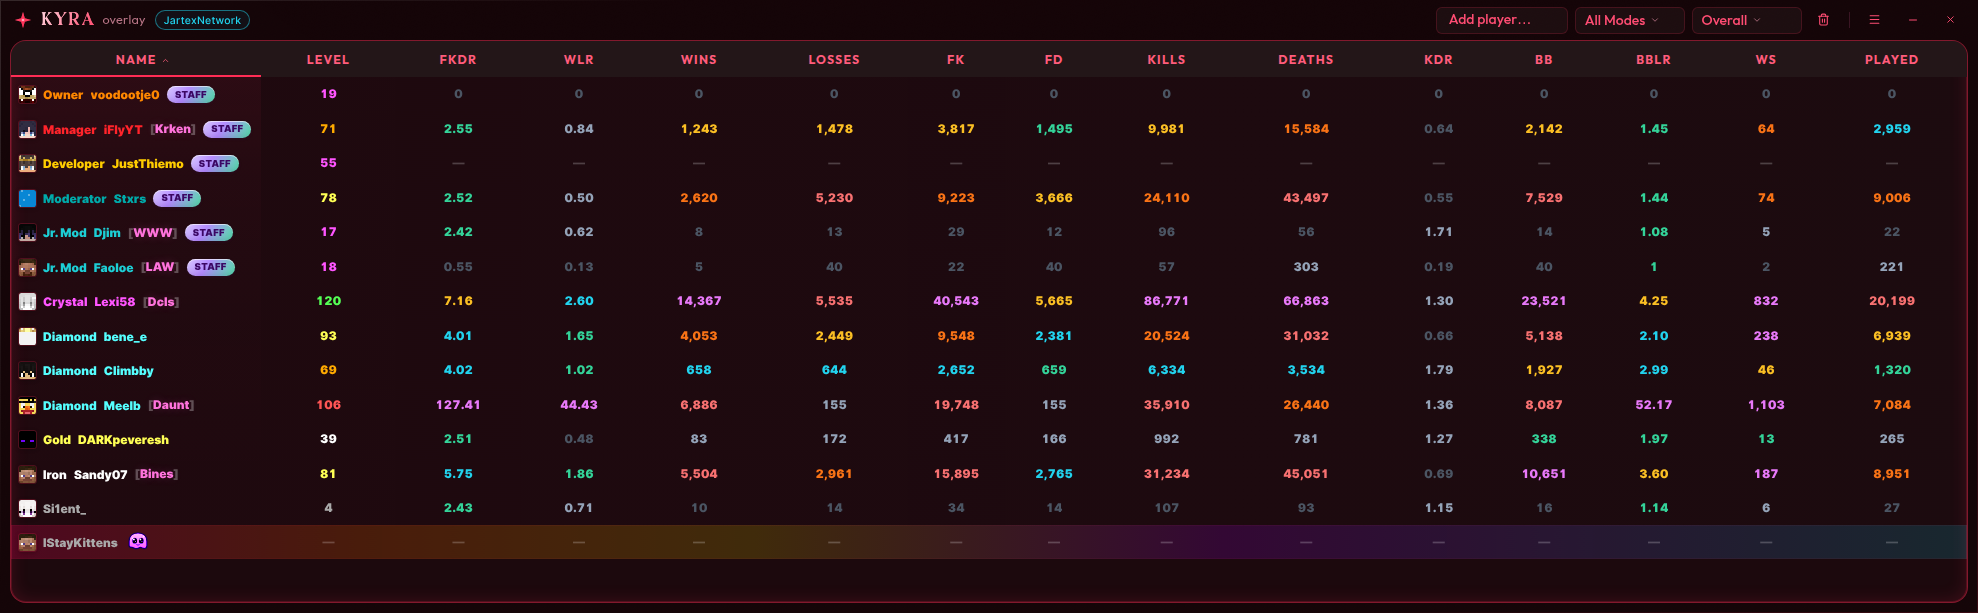
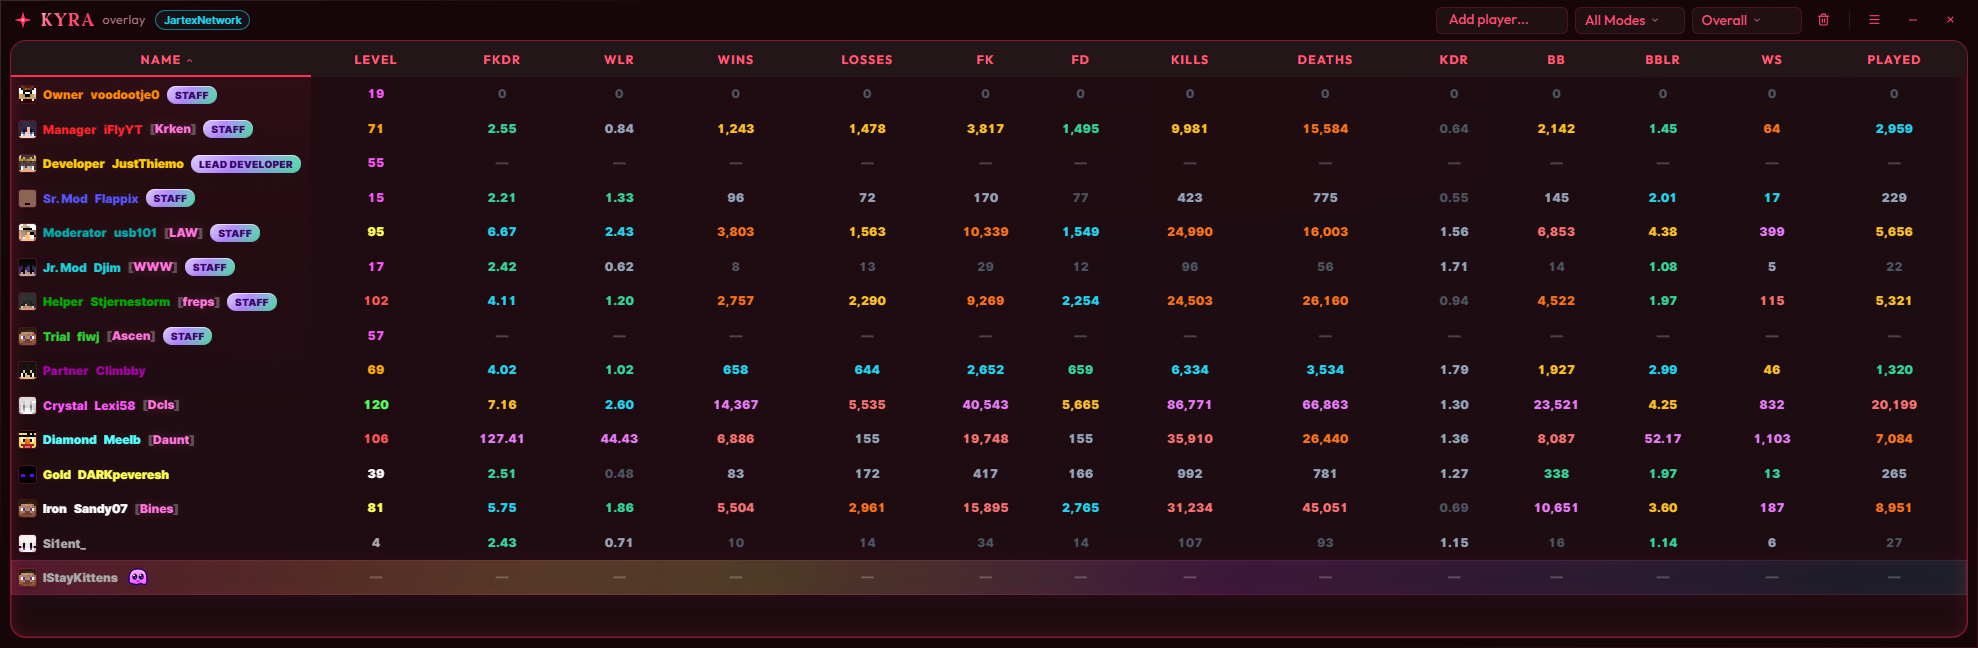
feat(support): integrate in-app support

diff --git a/e2e/showcase.spec.ts b/e2e/showcase.spec.ts
@@ -3,40 +3,44 @@ import path from 'node:path';
 import { test } from '@playwright/test';
 import { _electron as electron } from 'playwright';
 
-const pika = [
-  'voodootje0',
-  'Arrly',
-  'JustThiemo',
-  '_Luanne',
-  'Ehtne',
-  'Darnly',
-  'Vaitren',
-  'tobin',
-  'Climbby',
-  'meoweys',
-  'resuns',
-  'izoo_',
-  'Si1ent_',
-  'Hiqhest',
-  'IStayKittens',
-];
+const api = 'https://craftigames.kyizl.is-a.dev/api/staff';
 
-const jartex = [
-  'voodootje0',
-  'iFlyYT',
-  'JustThiemo',
-  'bene_e',
-  'Stxrs',
-  'Djim',
-  'Faoloe',
-  'Climbby',
-  'Lexi58',
-  'Meelb',
-  'DARKpeveresh',
-  'Sandy07',
-  'Si1ent_',
-  'IStayKittens',
-];
+interface StaffApiResponse {
+  groups: { members: { username: string }[] }[];
+}
+
+async function fetchStaffUsernames(network: 'pika' | 'jartex'): Promise<string[]> {
+  const response = await fetch(`${api}/${network}`);
+  if (!response.ok) {
+    throw new Error(
+      `[showcase] staff API request failed for ${network}: ${response.status}`,
+    );
+  }
+
+  const data = (await response.json()) as StaffApiResponse;
+  return data.groups.map((group) => group.members[0].username);
+}
+
+const NON_STAFF_USERNAMES = {
+  pika: [
+    'Climbby', // Partner
+    'avised', // Champion
+    'resuns', // Titan
+    'izoo_', // Elite
+    'Si1ent_', // VIP
+    'Hiqhest', // NON
+    'IStayKittens', // Nicked
+  ],
+  jartex: [
+    'Climbby', // Partner
+    'Lexi58', // Crystal
+    'Meelb', // Diamond
+    'DARKpeveresh', // Gold
+    'Sandy07', // Iron
+    'Si1ent_', // NON
+    'IStayKittens', // Nicked
+  ],
+};
 
 const columns = [
   'NAME',
@@ -197,6 +201,29 @@ async function captureShowcase(
         if (!state) throw new Error('[showcase] pinia state not found');
         const api = net === 'jartexnetwork' ? window.api.jartex : window.api.pika;
 
+        const normalizeProfile = (
+          profile: Record<string, unknown> | null,
+        ): Record<string, unknown> | null => {
+          if (!profile) return profile;
+          const rank = profile.rank as { rankDisplay?: string } | undefined;
+          if (!rank?.rankDisplay?.includes('Partner')) return profile;
+          const ranks = profile.ranks as { name: string }[];
+          if (ranks.some((r) => r.name === 'partner')) return profile;
+          return {
+            ...profile,
+            ranks: [
+              ...ranks,
+              {
+                name: 'partner',
+                displayName: 'Partner',
+                server: '',
+                season: null,
+                expiry: -1,
+              },
+            ],
+          };
+        };
+
         for (const name of names) {
           (state.players.players as unknown[]).push({
             name,
@@ -236,7 +263,9 @@ async function captureShowcase(
               } else if (result.rateLimit) {
                 p.error = 'rate_limited';
               } else {
-                p.profile = result.profile;
+                p.profile = normalizeProfile(
+                  result.profile as Record<string, unknown> | null,
+                );
                 p.stats = result.stats;
                 const apiName =
                   typeof result.profile === 'object' && result.profile !== null
@@ -293,8 +322,6 @@ async function captureShowcase(
       const tbodyH = tbody instanceof HTMLElement ? tbody.scrollHeight : 0;
       const footerH = footer instanceof HTMLElement ? footer.offsetHeight : 34;
 
-      // Measure the table's natural content width (sum of whitespace-nowrap columns)
-      // rather than body.scrollWidth which includes the over-expanded 2000px window.
       const table = document.querySelector('table') as HTMLElement | null;
       const w = table?.scrollWidth ?? document.body.scrollWidth;
 
@@ -341,6 +368,19 @@ async function captureShowcase(
 }
 
 test.setTimeout(180_000);
+
+let pika: string[] = [];
+let jartex: string[] = [];
+
+test.beforeAll(async () => {
+  const [pikaStaff, jartexStaff] = await Promise.all([
+    fetchStaffUsernames('pika'),
+    fetchStaffUsernames('jartex'),
+  ]);
+
+  pika = [...pikaStaff, ...NON_STAFF_USERNAMES.pika];
+  jartex = [...jartexStaff, ...NON_STAFF_USERNAMES.jartex];
+});
 
 test('capture pika showcase', async () => {
   await captureShowcase(pika, { ...base, network: 'pikanetwork' }, 'showcase-pika.png');

diff --git a/src/renderer/src/lib/staff-subroles.ts b/src/renderer/src/lib/staff-subroles.ts
@@ -1,0 +1,125 @@
+import type { Network } from '@renderer/types';
+
+interface StaffApiMember {
+  username: string;
+  role: string;
+}
+
+interface StaffApiGroup {
+  id: string;
+  members: StaffApiMember[];
+}
+
+interface StaffApiResponse {
+  groups: StaffApiGroup[];
+}
+
+type SubroleGroupMap = Map<string, Map<string, string>>;
+
+interface CacheEntry {
+  data: SubroleGroupMap | null;
+  expiresAt: number;
+  pending: Promise<SubroleGroupMap | null> | null;
+}
+
+const api = 'https://craftigames.kyizl.is-a.dev/api/staff';
+const ttl = 5 * 60 * 1000;
+
+const map: Record<Network, string> = {
+  pikanetwork: 'pika',
+  jartexnetwork: 'jartex',
+};
+
+const eligible: Record<Network, Set<string>> = {
+  pikanetwork: new Set(['admin', 'developer']),
+  jartexnetwork: new Set(['developer']),
+};
+
+const cache = new Map<Network, CacheEntry>();
+
+function buildGroupMap(response: StaffApiResponse): SubroleGroupMap {
+  const groupMap: SubroleGroupMap = new Map();
+  for (const group of response.groups ?? []) {
+    if (!group?.id) continue;
+    const memberMap = new Map<string, string>();
+    for (const member of group.members ?? []) {
+      if (!member?.username || !member?.role) continue;
+      memberMap.set(member.username.toLowerCase(), member.role);
+    }
+    groupMap.set(group.id, memberMap);
+  }
+  return groupMap;
+}
+
+async function fetchGroupMap(network: Network): Promise<SubroleGroupMap | null> {
+  const slug = map[network];
+  const controller = new AbortController();
+  const timeoutId = setTimeout(() => controller.abort(), 8000);
+
+  try {
+    const response = await fetch(`${api}/${slug}`, {
+      signal: controller.signal,
+    });
+    if (!response.ok) return null;
+
+    const payload = (await response.json()) as StaffApiResponse;
+    if (!Array.isArray(payload?.groups)) return null;
+
+    return buildGroupMap(payload);
+  } catch {
+    return null;
+  } finally {
+    clearTimeout(timeoutId);
+  }
+}
+
+async function getGroupMap(network: Network): Promise<SubroleGroupMap | null> {
+  const now = Date.now();
+  const existing = cache.get(network);
+
+  if (existing?.pending) return existing.pending;
+  if (existing && existing.expiresAt > now) return Promise.resolve(existing.data);
+
+  const pending = fetchGroupMap(network).then((data) => {
+    cache.set(network, {
+      data,
+      expiresAt: Date.now() + ttl,
+      pending: null,
+    });
+    return data;
+  });
+
+  cache.set(network, {
+    data: existing?.data ?? null,
+    expiresAt: existing?.expiresAt ?? 0,
+    pending,
+  });
+
+  return pending;
+}
+
+export function isStaffSubroleEligible(
+  network: Network,
+  rankName: string | null,
+): boolean {
+  /* eslint-disable-next-line ts/strict-boolean-expressions */
+  if (!rankName) return false;
+  return eligible[network]?.has(rankName) ?? false;
+}
+
+export async function resolveStaffSubrole(
+  network: Network,
+  rankName: string | null,
+  username: string | null,
+): Promise<string | null> {
+  /* eslint-disable-next-line ts/strict-boolean-expressions */
+  if (!username || !isStaffSubroleEligible(network, rankName)) return null;
+
+  const groupMap = await getGroupMap(network);
+  if (!groupMap) return null;
+
+  const memberMap = groupMap.get(rankName as string);
+  if (!memberMap) return null;
+
+  return memberMap.get(username.toLowerCase()) ?? null;
+}

diff --git a/src/renderer/src/components/PlayerRow.vue b/src/renderer/src/components/PlayerRow.vue
@@ -1,17 +1,20 @@
 <script setup lang="ts">
 import type { Player } from '@renderer/types';
+import { resolveStaffSubrole } from '@renderer/lib/staff-subroles';
+import { useConfigStore } from '@renderer/store/config';
 import {
   Column,
   COLUMNS,
   fmt,
   getTopRankDisplay,
+  getTopRankName,
   isStaff,
   levelColor,
   playerNameColor,
   statColor,
 } from '@renderer/types';
 import { X } from 'lucide-vue-next';
-import { computed, useId } from 'vue';
+import { computed, ref, useId, watch } from 'vue';
 import PlayerAvatar from './PlayerAvatar.vue';
 
 const props = defineProps<{
@@ -29,6 +32,38 @@ const ccStrokeId = `cc-stroke-${uid}`;
 const ccFillId = `cc-fill-${uid}`;
 
 const showcase = localStorage.getItem('skip-remove-btn') === '1';
+
+const config = useConfigStore();
+const staffBadgeLabel = ref('Staff');
+
+watch(
+  () => ({
+    active: isStaff(props.player.profile),
+    network: config.network,
+    rankName: getTopRankName(props.player.profile),
+    username: props.player.profile?.username ?? props.player.realName ?? null,
+  }),
+  (params, _previous, onCleanup) => {
+    if (!params.active || !params.username) {
+      staffBadgeLabel.value = 'Staff';
+      return;
+    }
+
+    let cancelled = false;
+    onCleanup(() => {
+      cancelled = true;
+    });
+
+    resolveStaffSubrole(params.network, params.rankName, params.username)
+      .then((subrole) => {
+        if (!cancelled) staffBadgeLabel.value = subrole ?? 'Staff';
+      })
+      .catch(() => {
+        if (!cancelled) staffBadgeLabel.value = 'Staff';
+      });
+  },
+  { immediate: true, deep: true },
+);
 
 const derived = computed(() => {
   const profile = props.player.profile;
@@ -238,7 +273,7 @@ function cellColor(column: Column): string {
             v-if="derived.staffPlayer"
             class="badge badge-staff"
           >
-            Staff
+            {{ staffBadgeLabel }}
           </span>
 
           <span
@@ -648,17 +683,18 @@ html.low-end .player-row:hover {
   justify-content: center;
   align-self: center;
   min-width: max-content;
-  height: 17px;
+  height: 18px;
   padding: 0 8px;
   border-radius: 999px;
   font-family: Inter, system-ui, sans-serif;
-  font-size: 9.5px;
+  font-size: 10px;
   font-weight: 900;
   line-height: 1;
   letter-spacing: 0.03em;
   text-transform: uppercase;
   white-space: nowrap;
   -webkit-font-smoothing: antialiased;
+  transform: translateZ(0);
 }
 
 .badge-staff {

diff --git a/src/renderer/index.html b/src/renderer/index.html
@@ -8,7 +8,7 @@
     />
     <meta
       http-equiv="Content-Security-Policy"
-      content="default-src 'self'; img-src 'self' https://mc-heads.net https://crafatar.com https://cravatar.eu https://overlay.kyizl.is-a.dev https://avatars.slack-edge.com data: blob:; script-src 'self'; style-src 'self' 'unsafe-inline'; font-src 'self'; connect-src 'self' https://mc-heads.net https://overlay.kyizl.is-a.dev; media-src 'self' blob:;"
+      content="default-src 'self'; img-src 'self' https://mc-heads.net https://crafatar.com https://cravatar.eu https://overlay.kyizl.is-a.dev https://avatars.slack-edge.com data: blob:; script-src 'self'; style-src 'self' 'unsafe-inline'; font-src 'self'; connect-src 'self' https://mc-heads.net https://overlay.kyizl.is-a.dev https://craftigames.kyizl.is-a.dev; media-src 'self' blob:;"
     />
     <title>Kyra Overlay</title>
   </head>
